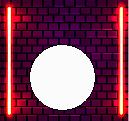
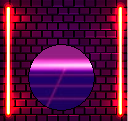
obstacles done

diff --git a/javascript.js b/javascript.js
@@ -4,7 +4,14 @@ window.onload = () => {
       game.start();
     };
   };
-  
+
+//Botão Restart
+/*window.onload = () => {
+    document.getElementById("btn-reset").onclick = () => {
+      restart();
+    };
+  }*/
+
   //Imagens
   const squareWall = new Image();
   squareWall.src = "images/wall.square.png";
@@ -193,16 +200,18 @@ class Wall {
     this.ctx = game.ctx;
     this.posX = x;
     this.posY = y;
-    //this.currentWall = currentWall;
+    this.currentWall = currentWall;
     this[currentWall]();
   }
 
   squareWall = () => {
     this.img = squareWall;
+    this.shape = "square";
  };
 
   circleWall = () => {
     this.img = circleWall;
+    this.shape = "circle"
   };
 
   triangleWall = () => {
@@ -219,14 +228,16 @@ class Wall {
   }
 }
 
+let chooseWall = "";
+
 function createWall() {
-const wall = new Wall (game.canvas.width, 150, "triangleWall")
+const wall = new Wall (game.canvas.width, 150, selectRandomWall())
 game.obstacles.push(wall)
 }
 
 function updateWalls() {
     game.frames += 1;
-if (game.frames % 240 === 0) {
+if (game.frames % 120 === 0) {
     createWall();
 }
 for (let obstacle of game.obstacles) {
@@ -235,16 +246,35 @@ for (let obstacle of game.obstacles) {
 }
 }
 
-function selectRandom (obstacles) {
-    let randomWall = obstacles[Math.floor(Math.random() * obstacles.length)]
-    return randomWall;
-}
-
-function selectWall () {
-    let chooseWall = selectRandom(game.obstacles);
+function selectRandomWall () {
+    const wallTypes = ["squareWall", "circleWall", "triangleWall", "heartWall"];
+    let randomWall = wallTypes[Math.floor(Math.random() * wallTypes.length)];
+    let chooseWall = (`${randomWall}`);
     return chooseWall;
 }
 
+/*function selectWall () {
+    let chooseWall = selectRandomWall(game.obstacles);
+    return chooseWall;
+}*/
+
+function speeder () {
+    if (game.points === 100) {
+    game.speed = 12;
+    }
+}  
+
+/*function restart () {
+    game.clear();
+    const player = new Component(10, 210);
+    player.update();
+    game.obstacles = [];
+    updateWalls();
+    game.frames = 0;
+    game.points = 0;
+    game.speed = 3;
+    game.start();
+}*/
 
 function updateGameArea() {
   game.clear();
@@ -252,30 +282,32 @@ function updateGameArea() {
   backgroundImage.draw();
   game.score();
   updateWalls();
-  //updateObstacles();
   player.update();
+  speeder();
   game.score();
   checkGameOver();
 }
 
 /*function checkColision {
-    if player.currentShape = "square" {
+    para cada parametro ele verifca se o current shape é igual ao shape do obstaculo, se for igual passa se não game over
+    se for true continua
+1)Race car detectar colisão preciso da right
+posição das figuras
+    let formX = player.posX;
+    let formY = player.posY;
+
+    posição x da figura com o final da parede, quando eles forem iguais faz a colisão
+    let wallX = Wall.posX;
+    let wallY = Wall.posY;
+    let squareSize = Wall."squareWall".width;
+    let circleSize = Wall.""
+    let triangleSize = 
+    
+2) se bateu, Verificar se as imagens são iguais
+    if ( > player.currentShape = "square" {
         continue
     } else {
         checkGameOver();
-    }
-}*/
-
-
-//Se desativar isso, os pontos param de contar
-/*function updateObstacles () {
-    game.frames += 1;
-    if (game.frames % 240 === 0) {
-        createObstacle();
-    }
-    for (let obstacle of game.obstacles) {
-        obstacle.posX -= 1;
-        obstacle.update();
     }
 }*/
 
@@ -289,8 +321,7 @@ function checkGameOver() {
     crashSound.play();
     game.clear();
     gameOverSound.play();
-    const imgGameOver = new Image();
-    imgGameOver.src = "images/game-over.PNG";
+    img = gameOverImg;
   }
 }
 
